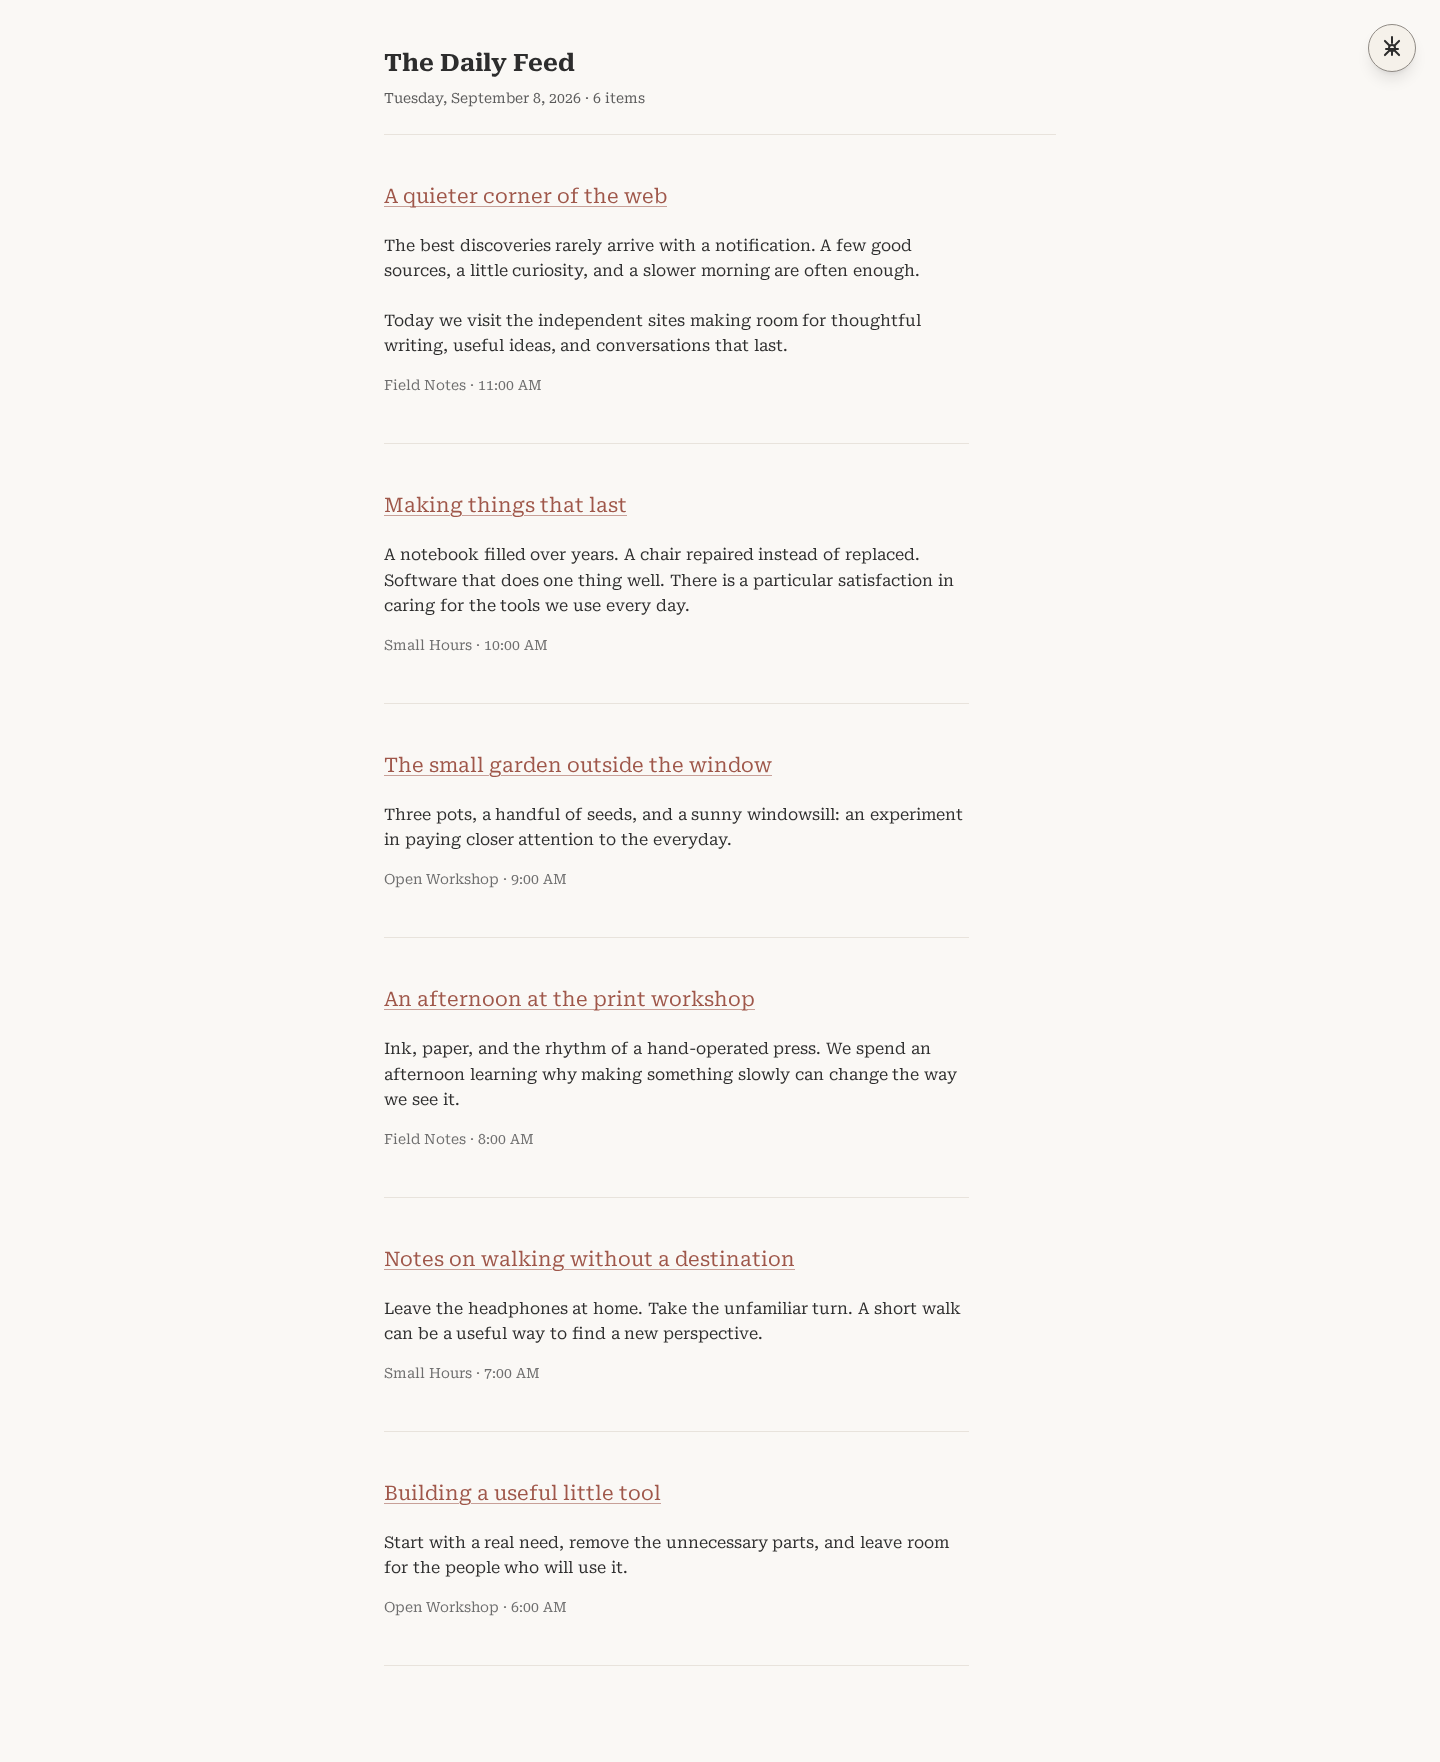
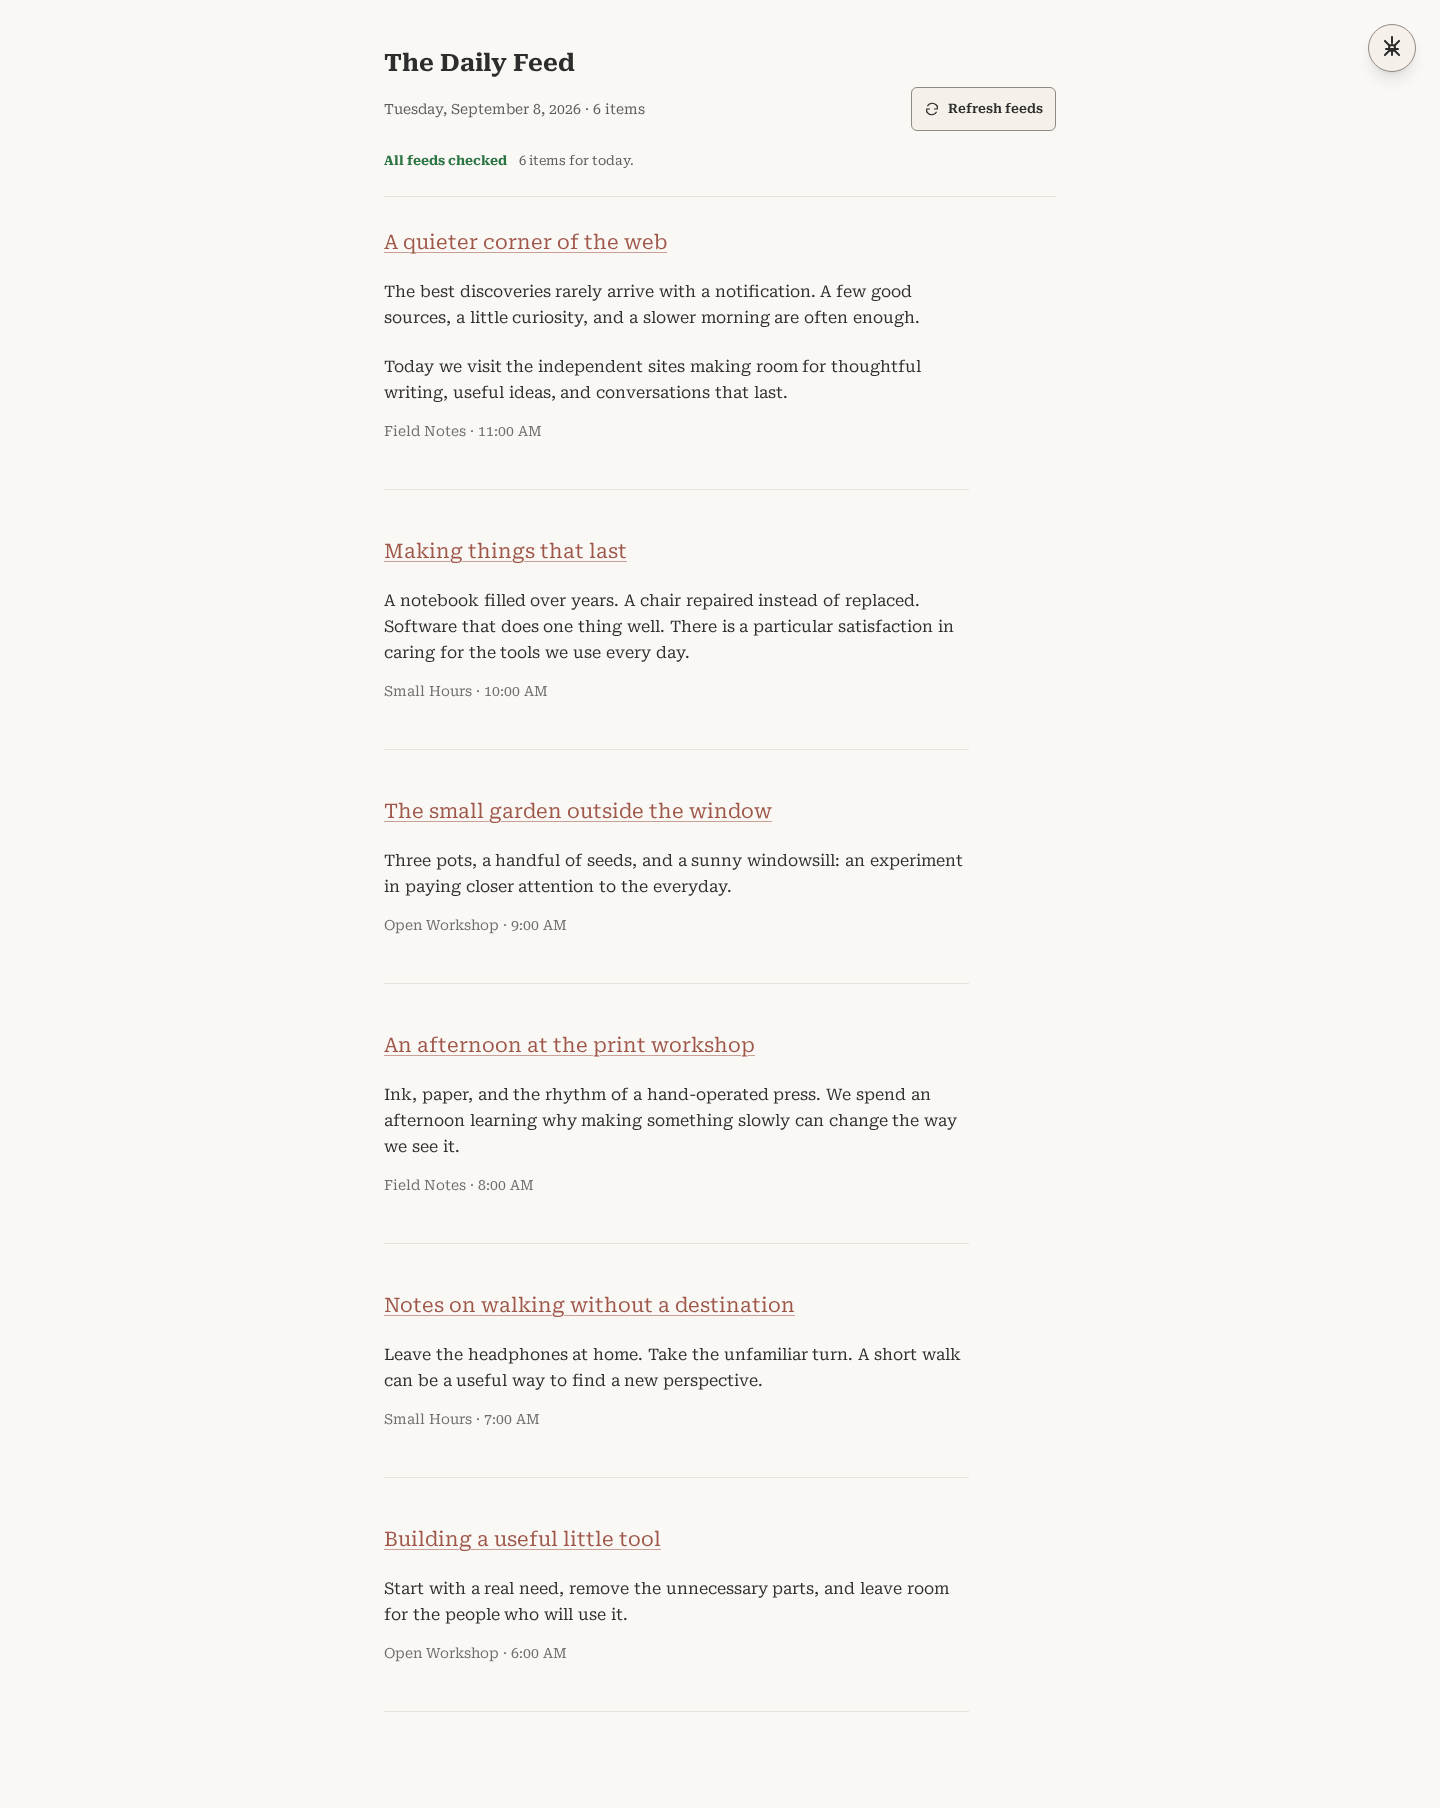
docs(reader): update recovery guidance and screenshots

diff --git a/README.md b/README.md
@@ -58,8 +58,12 @@ request-body limits, and unbuffered streaming belong at the reverse proxy.
 - Choose **Refresh feeds** to check your sources again. The progress panel shows
   how many feeds have been checked while available articles stay readable. Open
   **Manage feeds** to see which sources are still checking or need another try.
-- Install the app through your browser if it supports PWAs. Successful same-day
-  snapshots provide offline fallback for feeds already loaded in that browser.
+- If sources fail or remain unchecked, use **Refresh feeds** or **Try again**
+  in the reader, or **Try all feeds again** in the manager. A checked source may
+  have failed or timed out; **Not checked** means no result arrived for it.
+- Install the app through your browser if it supports PWAs. Saved same-day
+  snapshots provide fallback for the same enabled sources and timezone.
+  **Unable to refresh** identifies saved content after a request failure.
 
 See the synthetic [reader progress](docs/assets/loading-desktop.png) and
 [feed-manager progress](docs/assets/loading-manager-narrow.png) screenshots.
@@ -81,6 +85,12 @@ copy of every article or image. Clearing site data removes your subscriptions
 and snapshots; export OPML before moving or resetting a browser. Feed quality,
 publication dates, upstream availability, and publisher content determine what
 appears. Private-network feeds are blocked in production by default.
+
+Refresh requests can reuse the server's feed cache, which lasts one hour by
+default. The current app also checks feeds hourly while the page remains open.
+The [vision](VISION.md) calls for reader-initiated retrieval; the
+[implementation gaps](docs/architecture-decisions.md#known-implementation-gaps)
+record this difference.
 
 ## Development
 
@@ -106,8 +116,8 @@ smoke tests, and builds one unpublished Docker image. It never deploys.
 
 After `mise run build` and `mise run browser-install`, run `mise run browser`.
 Use `mise run integration` for the API tests that start a local server.
-To refresh the synthetic screenshots, use
-`UPDATE_SCREENSHOTS=1 mise run browser -- --grep 'reader renders'`.
+See [browser verification and screenshots](CONTRIBUTING.md#browser-verification-and-screenshots)
+for capture commands, evidence, and coverage limits.
 
 See [CONTRIBUTING.md](CONTRIBUTING.md), [SECURITY.md](SECURITY.md), and
 [TECHNICAL.md](TECHNICAL.md) for contribution guidance, private security reporting,
